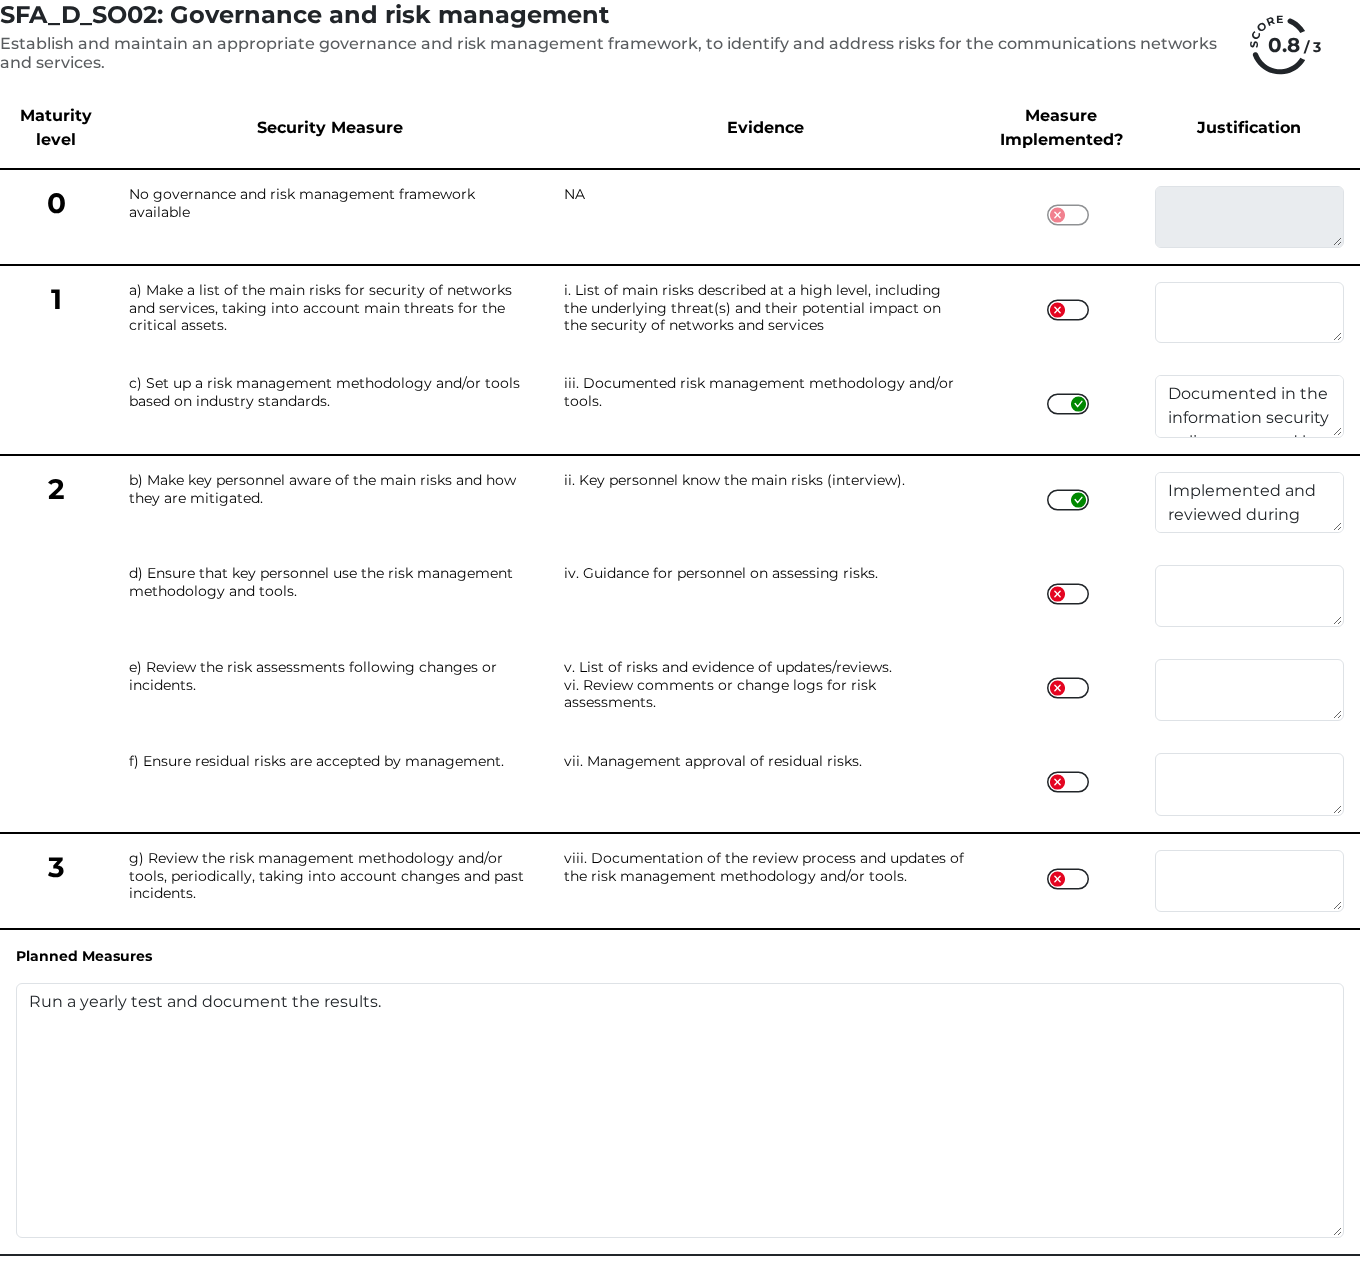
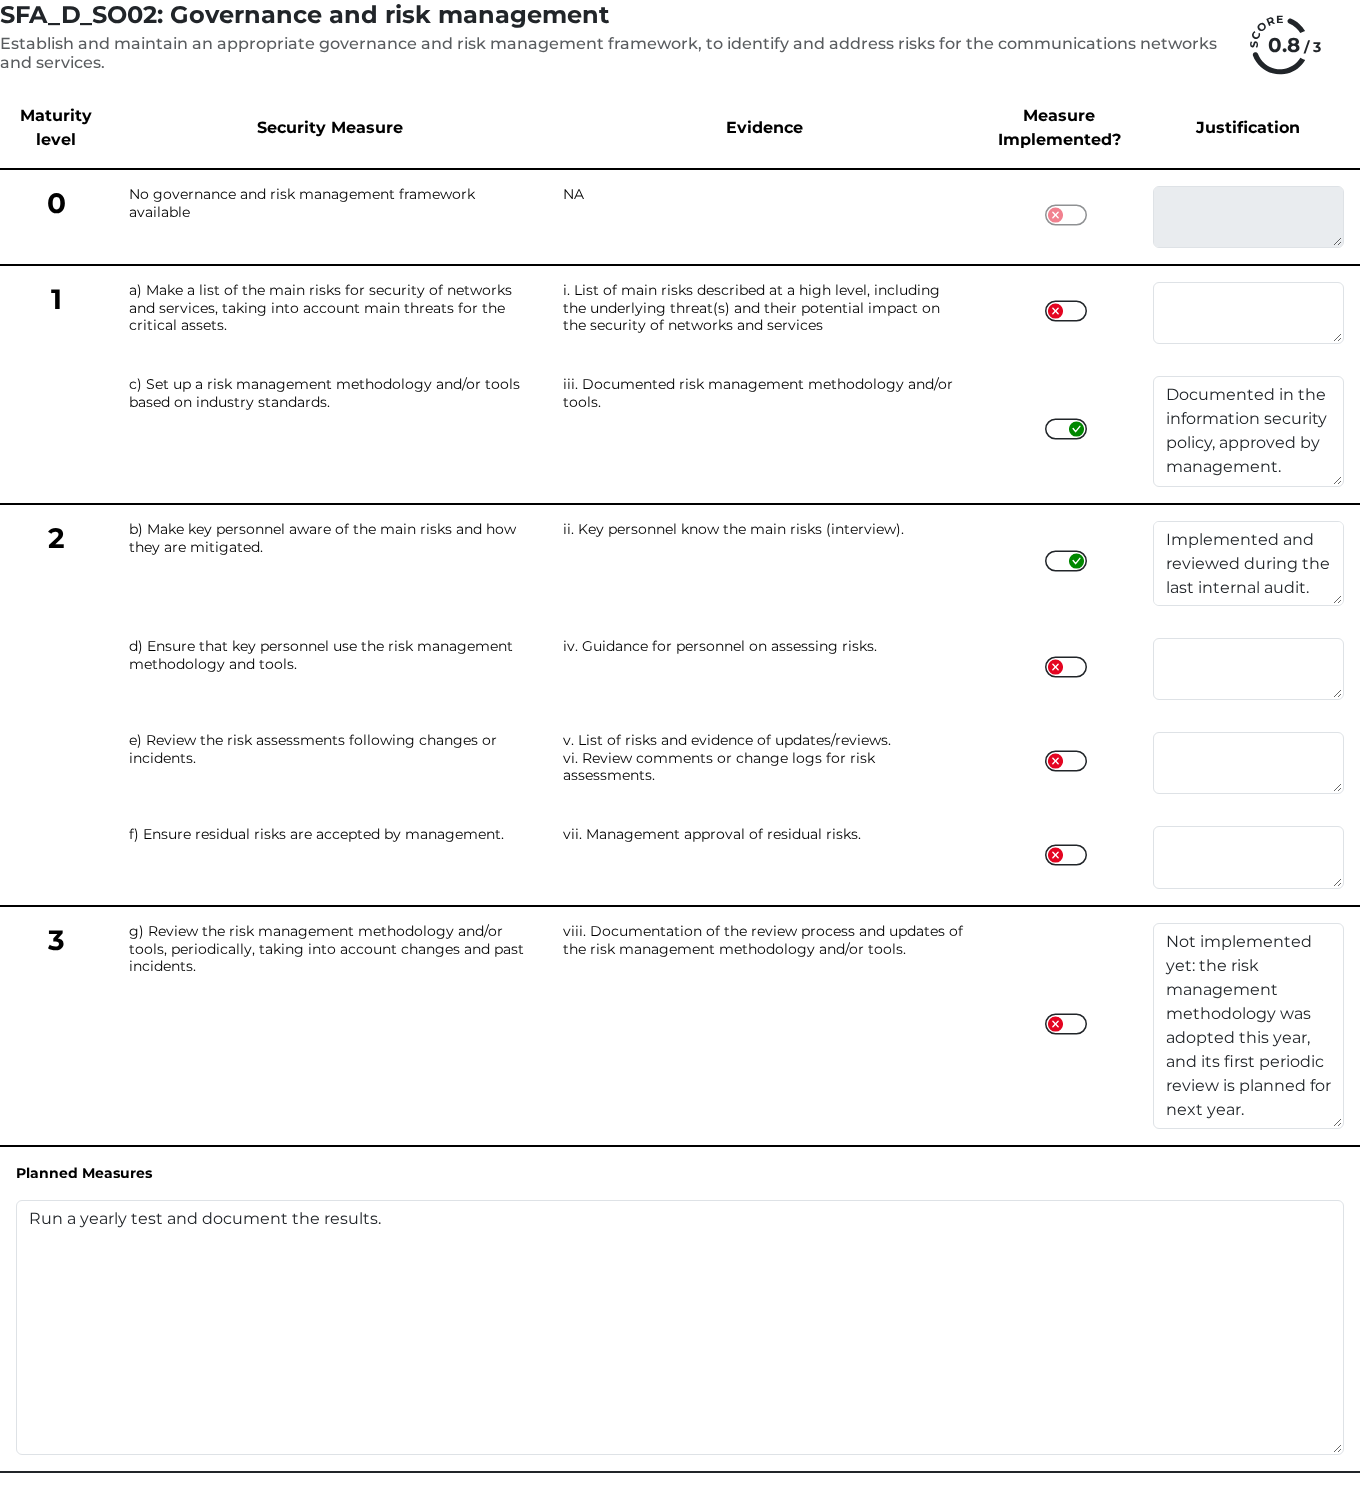
[Docs][SO] Updated declaration documentation and images for clarity on implementation status, comment #920

diff --git a/docs/security-objectives/fill-in-a-declaration.rst b/docs/security-objectives/fill-in-a-declaration.rst
@@ -84,7 +84,7 @@ Fill in an objective
 Each objective is a table with one row per security measure, grouped by maturity level, and a **Planned Measures** field below it.
 
 .. figure:: /_static/images/security-objectives/fill-in-a-declaration-02.png
-   :alt: Security objective with its measures grouped by maturity level, two measures implemented with their justification, and the Planned Measures field
+   :alt: Security objective with its measures grouped by maturity level, two measures implemented with their justification, one not implemented with the reason why, and the Planned Measures field
    :target: ../_static/images/security-objectives/fill-in-a-declaration-02.png
 
 The columns are:
@@ -93,7 +93,7 @@ The columns are:
 - **Security Measure**: The measure to put in place.
 - **Evidence**: The evidence the regulator expects to see for that measure. You cannot edit it.
 - **Measure Implemented?**: A switch to turn on for each measure that is in place.
-- **Justification**: How the measure is implemented, and where the evidence can be found.
+- **Justification**: How the measure is implemented, and where the evidence can be found, or why it is not implemented.
 - **Review comment**: The regulator's comment on the measure. You cannot edit it. The column appears once
   the declaration has been submitted, or when the regulator has already commented on an earlier version.
 
@@ -108,8 +108,8 @@ To fill in an objective:
 2. Write a **Justification** for each measure you have turned on.
 
    When the framework makes the justification mandatory, the field of a measure turned on without one is outlined
-   in red, with the placeholder **Justification required**. Do not write a justification for a measure that is off:
-   the objective would stay partially filled.
+   in red, with the placeholder **Justification required**. For a measure that is off, the justification is optional:
+   you can use it to explain why the measure is not implemented.
 
 3. Describe in **Planned Measures** the measures you have in place and plan to take, with a schedule of their stages.
 
@@ -138,8 +138,8 @@ and, below it, the number and name of each maturity level of the framework.
      - No measure of the objective has been answered yet.
    * - Orange triangle
      - Partially filled
-     - The objective is started but not complete: a justification or the planned measures are missing,
-       or a justification was written for a measure that is off.
+     - The objective is started but not complete: a measure turned on has no justification, or the planned
+       measures are missing.
    * - Green circle
      - Fully filled
      - Everything the framework requires for the objective is filled in. On a submitted declaration, the legend reads
